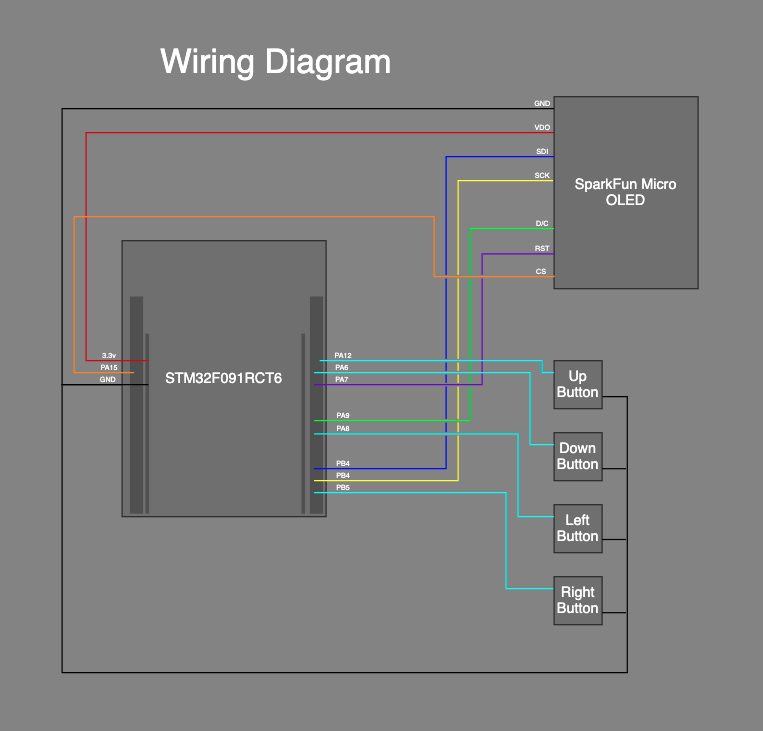
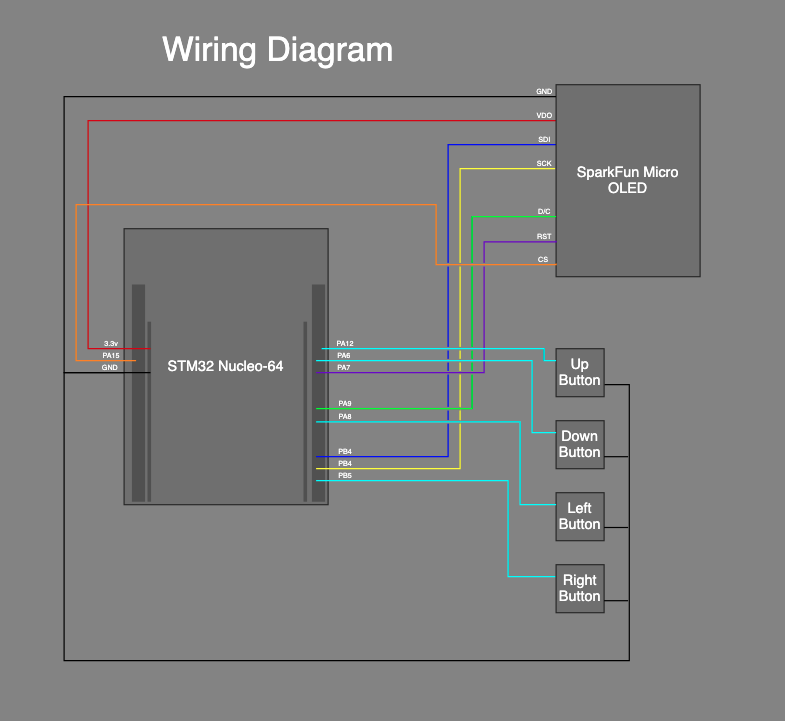
updated wiring diagram, removed led, updated log statments

Changed region(s): [[0.0904, 0.0305, 0.9345, 0.8544], [0.0904, 0.9154, 0.8139, 0.9459], [0.8742, 0.1221, 0.9345, 0.1526]]

diff --git a/Src/state_machine.c b/Src/state_machine.c
@@ -11,7 +11,6 @@
 #include "log.h"
 #include "display.h"
 #include "delay.h"
-#include "led.h"
 #include "snake_list.h"
 #include <stdlib.h>
 
@@ -171,7 +170,6 @@ void update_sate_machine(){
 		}
 
 	} else if(current_state == GAME_ACTIVE && within_goal_range(snake_head->x, snake_head->y)){ // Game is active and a goal has been hit
-		LOG("GOAL SCORED IN MAIN\r\n");
 		handle_event(SCORE);
 	}
 }
